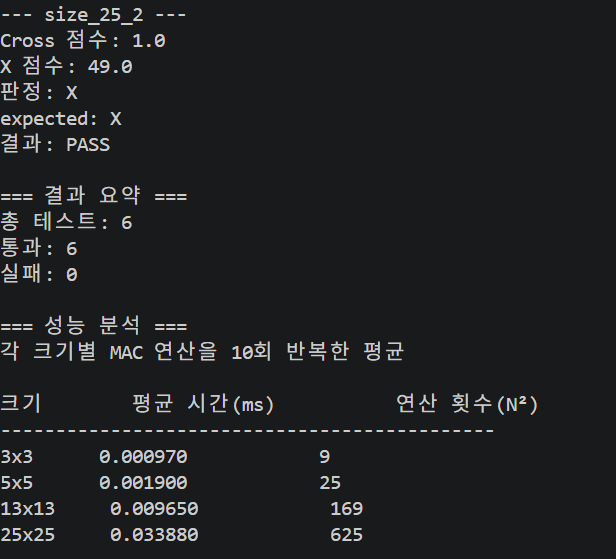
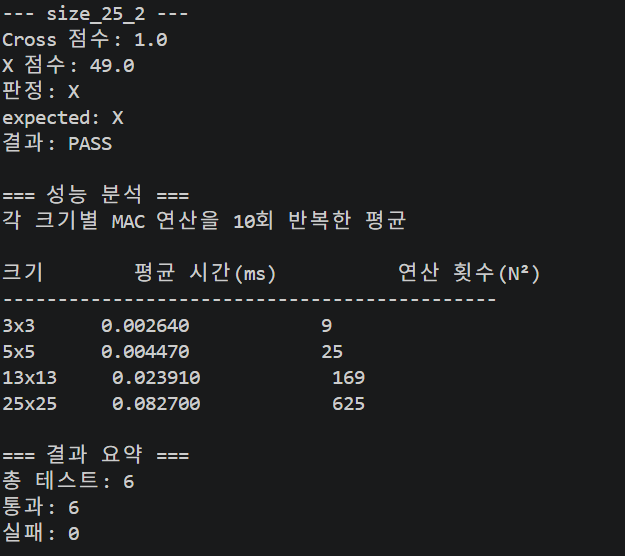
Docs: finalize evidence and result report

diff --git a/main.py b/main.py
@@ -272,6 +272,8 @@ def run_mode2():
                 (pattern_key, str(error))
             )
 
+    show_performance_analysis([3, 5, 13, 25])
+
     print("\n=== 결과 요약 ===")
     print(f"총 테스트: {total_count}")
     print(f"통과: {pass_count}")
@@ -282,7 +284,6 @@ def run_mode2():
 
         for case_id, reason in fail_cases:
             print(f"- {case_id}: {reason}")
-    show_performance_analysis([3, 5, 13, 25])
 
 def run_mode1():
     print("\n=== 모드 1: 사용자 입력 (3x3) ===")

diff --git a/README.md b/README.md
@@ -300,3 +300,16 @@ O(N²)
 - `run_mode1()` : 사용자 입력 모드 실행
 - `run_mode2()` : JSON 일괄 분석 실행
 - `show_performance_analysis()` : 성능 분석 표 출력
+
+---
+
+## 18. 최종 실행 검증
+
+최종 실행에서는 `data.json`의 전체 테스트 케이스를 분석한 뒤 성능 분석을 수행하고 마지막에 결과 요약을 출력했습니다.
+
+전체 6개 테스트가 모두 정상적으로 통과했습니다.
+
+```text
+총 테스트: 6
+통과: 6
+실패: 0
